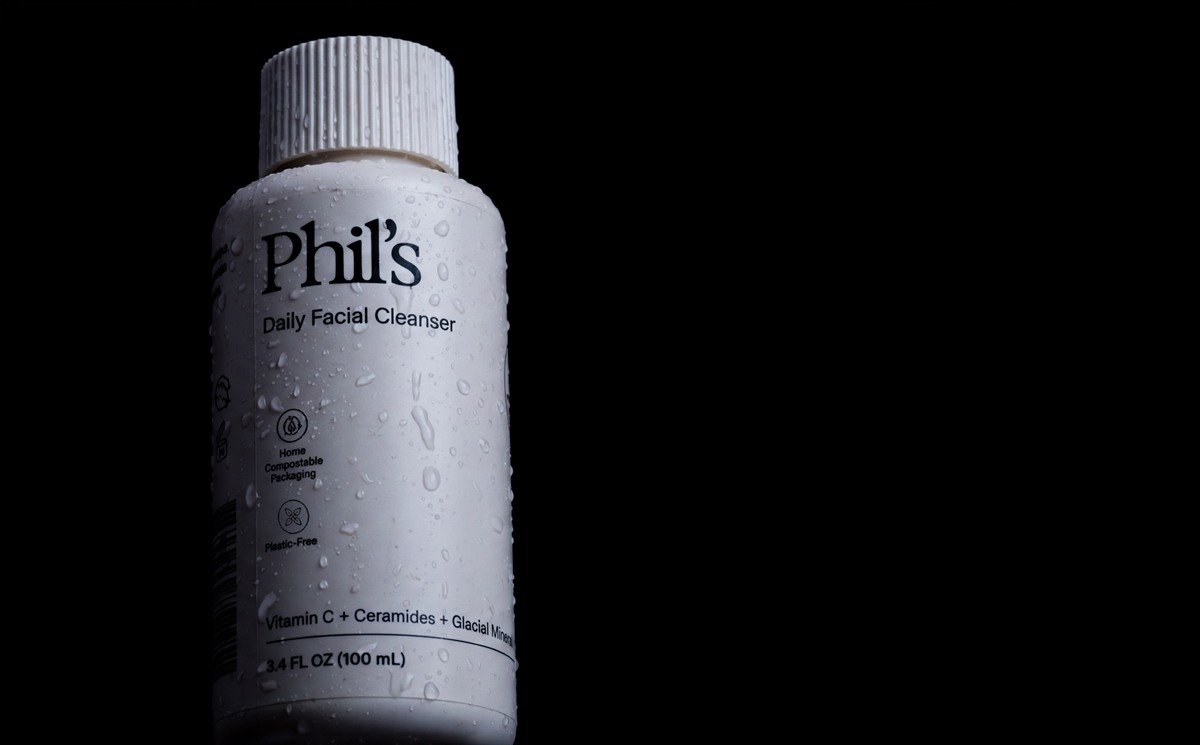
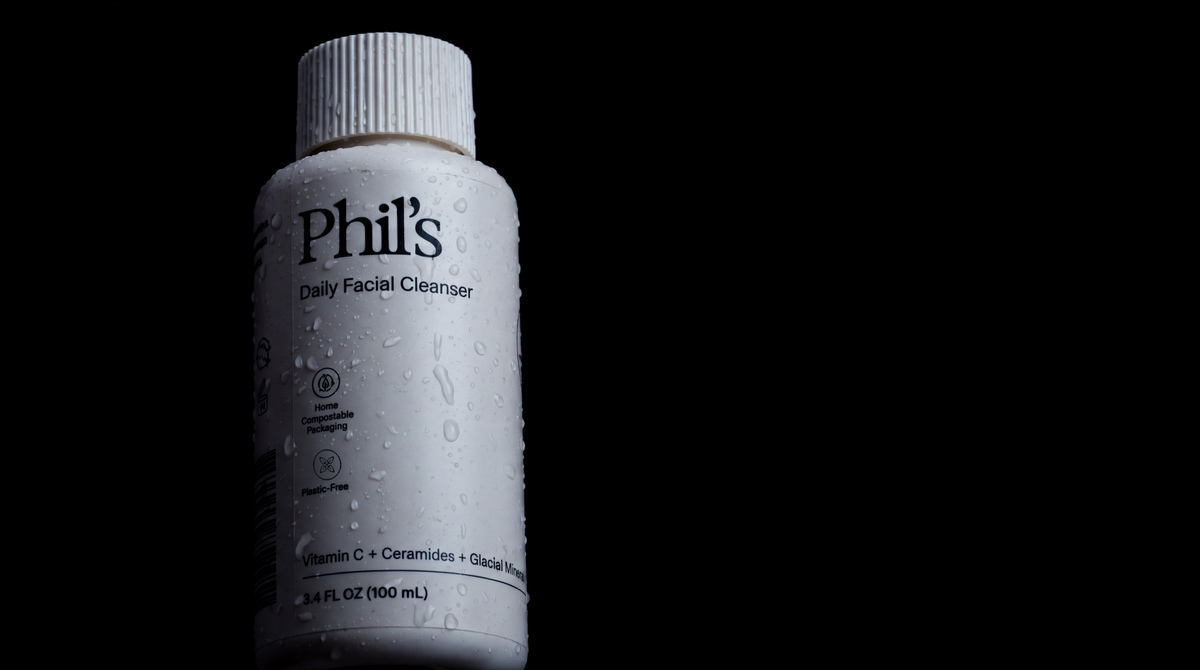
Add files via upload

Changed region(s): [[0.1542, 0.0299, 0.4625, 1.0]]

diff --git a/src/main.tsx b/src/main.tsx
@@ -79,7 +79,7 @@ function Studio() {
 }
 
 function Offer() {
-  return <section className="partners section-pad"><span className="eyebrow">THE FIVE-IMAGE PRODUCT CAMPAIGN</span><h2>Five images.<br/>One clear direction.</h2><p className="offer-intro">A focused set for a product launch, refresh or content push. You get five finished images that feel like one campaign, plus selected crops for the places they need to run.</p><div className="offer-grid"><div><strong>01</strong><span>TWO HERO COMPOSITIONS</span><p>A lead hero and a tilted hero that establish the campaign.</p></div><div><strong>02</strong><span>TWO DETAIL VIEWS</span><p>A slight macro and an extreme macro that bring the product closer.</p></div><div><strong>03</strong><span>ONE COPY-SPACE COMPOSITION</span><p>One composition with room for campaign messaging.</p></div><div><strong>+</strong><span>READY FOR PLACEMENT</span><p>One wide website crop and agreed social crops from selected images.</p></div></div><p className="pricing-note">The five master images are the finished campaign photographs. The website and social adaptations are crops made from selected masters. Advertising copy and graphic layouts can be scoped separately.</p><div className="capabilities"><span className="eyebrow">SUPPORTING CAPABILITIES</span><p>{capabilities.join(' · ')}</p></div></section>;
+  return <section className="partners section-pad"><span className="eyebrow">THE FIVE-IMAGE PRODUCT CAMPAIGN</span><h2>Five images.<br/>One clear direction.</h2><p className="offer-intro">A focused set for a product launch, refresh or content push. You get five finished images that feel like one campaign, plus selected crops for the places they need to run.</p><div className="offer-grid"><div><strong>01</strong><span>ONE ANGLED HERO</span><p>A clear, complete product view that establishes the campaign.</p></div><div><strong>02</strong><span>TWO DETAIL VIEWS</span><p>A slight macro and an extreme macro that bring the product closer.</p></div><div><strong>03</strong><span>TWO COPY-SPACE COMPOSITIONS</span><p>A hero and closer detail composed with room for campaign messaging.</p></div><div><strong>+</strong><span>READY FOR PLACEMENT</span><p>Agreed website and social crops prepared from selected images.</p></div></div><p className="pricing-note">The five master images are the finished campaign photographs. Placement examples show how selected copy-space images can carry website and advertising layouts. Copywriting and graphic production can be scoped separately.</p><div className="capabilities"><span className="eyebrow">SUPPORTING CAPABILITIES</span><p>{capabilities.join(' · ')}</p></div></section>;
 }
 
 function Contact() {
@@ -91,7 +91,7 @@ function Contact() {
     <div className="email-inquiry">
       <h3>Tell me what you’re creating.</h3>
       <p>Send your product, idea, intended placements and timeline. I’ll turn it into a clear campaign plan and estimate.</p>
-      <p className="email-address">hello@concreteorbit.com</p>
+      <a className="email-address" href="mailto:hello@concreteorbit.com">hello@concreteorbit.com</a>
     </div>
   </section>;
 }
@@ -105,10 +105,10 @@ function Home() {
     <section className="hero section-pad fullbleed-hero">
       <div className={`hero-image homepage-hero-stage homepage-hero-stage-${heroSlide}`}>
         <picture className={`homepage-hero-photo homepage-hero-slide homepage-hero-macro ${heroSlide === 0 ? 'is-active' : ''}`} aria-hidden={heroSlide !== 0}>
-          <img className="portfolio-image" src="/images/projects/trace-magnesium-glycinate-extreme-macro-1920.webp" sizes="100vw" width={1920} height={1072} alt="Extreme macro of the Trace Magnesium Glycinate label and ribbed cap in deep blue light." loading="eager" fetchPriority="high" decoding="async"/>
+          <img className="portfolio-image" src="/images/projects/mt-angel-extreme-macro-1920.webp" sizes="100vw" width={1920} height={1072} alt="Extreme close-up of the Mt. Angel Vitamins Joint Solution label, amber bottle and ribbed cap." loading="eager" fetchPriority="high" decoding="async"/>
         </picture>
-        <picture className={`homepage-hero-photo homepage-hero-slide homepage-hero-macro homepage-hero-acure ${heroSlide === 1 ? 'is-active' : ''}`} aria-hidden={heroSlide !== 1}>
-          <img className="portfolio-image" src="/images/projects/acure-shampoo-extreme-macro-1920.webp" sizes="100vw" width={1920} height={1072} alt="Extreme macro of the ACURE shampoo tube covered in water droplets and illuminated in cyan light." loading="eager" decoding="async"/>
+        <picture className={`homepage-hero-photo homepage-hero-slide homepage-hero-macro homepage-hero-phils ${heroSlide === 1 ? 'is-active' : ''}`} aria-hidden={heroSlide !== 1}>
+          <img className="portfolio-image" src="/images/projects/phils-extreme-macro-2000.jpg" srcSet="/images/projects/phils-extreme-macro-1200.jpg 1200w, /images/projects/phils-extreme-macro-2000.jpg 1376w" sizes="100vw" width={1376} height={768} alt="Extreme close-up of the Phil’s Daily Facial Cleanser label, ribbed cap and water droplets." loading="eager" decoding="async"/>
         </picture>
         <div className="fullbleed-hero-copy">
           <p className="fullbleed-hero-brand"><span>CONCRETE ORBIT</span></p>
@@ -153,7 +153,7 @@ const applicationSettings: Record<string, ApplicationSettings> = {
   },
   'mt-angel-joint-solution': { bannerIndex: 6, bannerIndexes: [6, 0], bannerIntervalMs: 30000, adIndex: 4, adIndexes: [4, 5], websiteHeadline: 'Joint support, brought into focus.', adHeadline: 'Movement starts here.' },
   'before-toothpaste': { bannerIndex: 4, bannerIndexes: [4, 0], bannerIntervalMs: 30000, adIndex: 3, adIndexes: [3, 4], websiteHeadline: 'A closer look at clean.', adHeadline: 'Clean, brought closer.' },
-  'phils-daily-facial-cleanser': { bannerIndex: 3, adIndex: 3, adIndexes: [3, 4], websiteHeadline: 'Clean, brought closer.', adHeadline: 'A better way to begin.' },
+  'phils-daily-facial-cleanser': { bannerIndex: 3, bannerIndexes: [3, 0], bannerIntervalMs: 30000, adIndex: 3, adIndexes: [3, 4], websiteHeadline: 'Clean, brought closer.', adHeadline: 'A better way to begin.' },
   trace: { bannerIndex: 2, adIndex: 0, websiteHeadline: '40,000 Volts, up close.', adHeadline: 'Blue light. Water. Energy.' },
 };
 

diff --git a/src/projectData.ts b/src/projectData.ts
@@ -35,7 +35,7 @@ export const projects: Project[] = [
   {
     slug: 'mt-angel-joint-solution', name: 'JOINT SOLUTION', brand: 'Mt. Angel Vitamins', tone: 'slate',
     services: ['Creative Direction', 'Photography', 'Compositing', 'Image Finishing'],
-    deliverables: 'Angled hero · Slight macro · Extreme macro · Copy-space hero · Copy-space detail',
+    deliverables: 'Hero · Angled hero · Slight macro · Extreme macro · Copy-space hero',
     direction: 'A low-key product study giving an amber supplement bottle greater weight, precision and presence.',
     cover: { src: '/images/projects/mt-angel-hero-copy-space-2560.webp', alt: 'Mt. Angel Vitamins Joint Solution bottle upright beside generous black copy space.', width: 2560, height: 1662 },
     gallery: [
@@ -67,13 +67,13 @@ export const projects: Project[] = [
     services: ['Creative Direction', 'Art Direction', 'Photography', 'Image Finishing'],
     deliverables: 'Angled hero · Slight macro · Extreme macro · Copy-space hero · Copy-space detail',
     direction: 'A restrained skincare study built around clean form, condensation and deep contrast.',
-    cover: { src: '/images/projects/phils-hero-copy-space-2000.jpg', srcSet: '/images/projects/phils-hero-copy-space-1200.jpg 1200w, /images/projects/phils-hero-copy-space-2000.jpg 2000w', alt: 'Phil’s Daily Facial Cleanser upright beside generous black copy space.', width: 2000, height: 1241 },
+    cover: { src: '/images/projects/phils-hero-copy-space-2000.jpg', srcSet: '/images/projects/phils-hero-copy-space-1200.jpg 1200w, /images/projects/phils-hero-copy-space-2000.jpg 2000w', alt: 'Phil’s Daily Facial Cleanser upright beside generous black copy space.', width: 2000, height: 1116 },
     gallery: [
-      { src: '/images/projects/phils-extreme-macro-2000.jpg', srcSet: '/images/projects/phils-extreme-macro-1200.jpg 1031w', alt: 'Extreme close-up of the Phil’s Daily Facial Cleanser label, ribbed cap and water droplets.', width: 1031, height: 575 },
+      { src: '/images/projects/phils-extreme-macro-2000.jpg', srcSet: '/images/projects/phils-extreme-macro-1200.jpg 1200w, /images/projects/phils-extreme-macro-2000.jpg 1376w', alt: 'Extreme close-up of the Phil’s Daily Facial Cleanser label, ribbed cap and water droplets.', width: 1376, height: 768 },
       { src: '/images/projects/phils-slight-macro-2000.jpg', srcSet: '/images/projects/phils-slight-macro-1200.jpg 1200w, /images/projects/phils-slight-macro-2000.jpg 2000w', alt: 'Close view of the Phil’s Daily Facial Cleanser bottle, ribbed cap and water droplets.', width: 2000, height: 1271 },
-      { src: '/images/projects/phils-tilt-hero-2000.jpg', srcSet: '/images/projects/phils-tilt-hero-1200.jpg 1200w, /images/projects/phils-tilt-hero-2000.jpg 2000w', alt: 'Phil’s Daily Facial Cleanser angled against black with wide copy space.', width: 2000, height: 1125 },
-      { src: '/images/projects/phils-hero-copy-space-2000.jpg', srcSet: '/images/projects/phils-hero-copy-space-1200.jpg 1200w, /images/projects/phils-hero-copy-space-2000.jpg 2000w', alt: 'Phil’s Daily Facial Cleanser upright beside generous black copy space.', width: 2000, height: 1241 },
-      { src: '/images/projects/phils-slight-macro-copy-space-2000.jpg', srcSet: '/images/projects/phils-slight-macro-copy-space-1200.jpg 1200w, /images/projects/phils-slight-macro-copy-space-2000.jpg 2000w', alt: 'Close view of Phil’s Daily Facial Cleanser beside black copy space.', width: 2000, height: 1402 },
+      { src: '/images/projects/phils-tilt-hero-2000.jpg', srcSet: '/images/projects/phils-tilt-hero-1200.jpg 1200w, /images/projects/phils-tilt-hero-2000.jpg 1376w', alt: 'Phil’s Daily Facial Cleanser angled against black with wide copy space.', width: 1376, height: 768 },
+      { src: '/images/projects/phils-hero-copy-space-2000.jpg', srcSet: '/images/projects/phils-hero-copy-space-1200.jpg 1200w, /images/projects/phils-hero-copy-space-2000.jpg 2000w', alt: 'Phil’s Daily Facial Cleanser upright beside generous black copy space.', width: 2000, height: 1116 },
+      { src: '/images/projects/phils-hero-2000.jpg', srcSet: '/images/projects/phils-hero-1200.jpg 1200w, /images/projects/phils-hero-2000.jpg 2000w', alt: 'Phil’s Daily Facial Cleanser presented upright against deep black.', width: 2000, height: 1116 },
     ],
   },
   {

diff --git a/src/styles.css b/src/styles.css
@@ -577,7 +577,8 @@ footer{background:var(--lab-panel);border-top:1px solid var(--lab-line)}
 .email-inquiry{align-self:start;padding:30px 0 0;border-top:1px solid var(--lab-line)}
 .email-inquiry h3{max-width:520px;margin:28px 0 20px;font-family:'Space Grotesk',sans-serif;font-size:clamp(34px,4.2vw,62px);font-weight:500;line-height:1.03;letter-spacing:-.045em}
 .email-inquiry>p{max-width:520px;margin:0;color:var(--lab-muted);font-size:13px;line-height:1.85}
-.email-address{display:inline-block;margin:34px 0 0;font:500 clamp(16px,1.7vw,23px) 'Space Grotesk',sans-serif;letter-spacing:-.015em;color:var(--lab-white);user-select:text}
+.email-address{display:inline-block;margin:34px 0 0;font:500 clamp(16px,1.7vw,23px) 'Space Grotesk',sans-serif;letter-spacing:-.015em;color:var(--lab-white);text-decoration:underline;text-decoration-thickness:1px;text-underline-offset:7px;text-decoration-color:var(--lab-accent);user-select:text;transition:color .2s ease,text-decoration-color .2s ease}
+.email-address:hover,.email-address:focus-visible{color:var(--lab-accent);text-decoration-color:var(--lab-white);outline:none}
 .contact-simple{border-top:1px solid var(--lab-line);align-items:start}
 .contact-simple .contact-heading h2{margin-top:28px}
 .contact-simple .email-inquiry{position:static}
@@ -1026,6 +1027,22 @@ footer{background:var(--lab-panel);border-top:1px solid var(--lab-line)}
   text-align:right;
   text-shadow:0 2px 18px rgba(0,0,0,.9);
 }
+.website-concept-phils-daily-facial-cleanser.website-concept-banner-slide-1::after{
+  background:linear-gradient(90deg,rgba(0,0,0,.78) 0%,rgba(0,0,0,.48) 24%,rgba(0,0,0,.1) 45%,transparent 66%);
+}
+.website-concept-phils-daily-facial-cleanser.website-concept-banner-slide-1 .concept-copy{
+  left:4.5%;
+  right:auto;
+  top:auto;
+  bottom:6.5%;
+  width:30%;
+  transform:none;
+  text-align:left;
+}
+.website-concept-phils-daily-facial-cleanser.website-concept-banner-slide-1 .concept-copy h4{
+  font-size:clamp(24px,2.6vw,43px);
+  line-height:1.02;
+}
 
 @media(max-width:800px){
   .website-concept-mt-angel-joint-solution .concept-copy,
@@ -1064,5 +1081,10 @@ footer{background:var(--lab-panel);border-top:1px solid var(--lab-line)}
     width:auto;
     transform:none;
     text-align:right;
+  }
+  .website-concept-phils-daily-facial-cleanser.website-concept-banner-slide-1 .concept-copy{
+    left:7%;
+    right:7%;
+    text-align:left;
   }
 }

diff --git a/index.html b/index.html
@@ -1,2 +1,1 @@
 <!doctype html><html lang="en"><head><meta charset="UTF-8"/><meta name="viewport" content="width=device-width, initial-scale=1.0"/><meta name="theme-color" content="#171816"/><meta name="description" content="Concrete Orbit creates five-image product campaigns for wellness brands, with coordinated hero, macro and copy-space imagery for websites, social and advertising."/><meta property="og:title" content="Concrete Orbit | Five-Image Product Campaigns for Wellness Brands"/><meta property="og:description" content="One product. Five coordinated images. One campaign built for websites, social and advertising."/><meta property="og:type" content="website"/><title>Concrete Orbit | Five-Image Product Campaigns for Wellness Brands</title><link rel="icon" type="image/svg+xml" href="/favicon.svg"/></head><body><div id="root"></div><script type="module" src="/src/main.tsx"></script></body></html>
-

diff --git a/README.md b/README.md
@@ -15,13 +15,11 @@ pnpm build
 - Campaign data and image sets live in `src/projectData.ts`.
 - Homepage campaign selections live in `src/selectedWork.ts`.
 - Optimized website assets live in `public/images`.
-- The homepage campaign set includes Alice Focus + Sleep, Mt. Angel Vitamins Joint Solution, Before SuperMint Toothpaste, ACURE Shampoo, Trace Magnesium Glycinate and EO.
-- Every homepage campaign appears as a large editorial panel that alternates every 30 seconds between a full-image extreme macro and a split-layout slight macro. The overlay identifies the actual campaign, product and services rather than presenting fictional advertising copy.
-- Campaign pages present the complete image set as a large scrolling sequence before the placement examples, with quiet labels that identify each composition.
-- In the Alice placement examples, the website banner alternates between Focus and Sleep every 30 seconds. The advertisement carousel uses the Focus slight macro with copy space and the Sleep hero with copy space, with layout text placed in the open black area. The social post uses the straight hero.
-- Each campaign page follows the same placement structure: a macro website banner, copy-space advertising layouts and a straight-hero social post.
-- Alice and Mt. Angel retain their approved placement treatments. Before, Trace Magnesium, EO and ACURE use an extreme macro website banner, a slight-macro copy-space advertisement followed by a straight-hero copy-space option, and a straight or dramatic tilted hero for social.
-- The corrected EO, ACURE Shampoo and Trace Magnesium files supplied on October 12, 2026 replace their earlier versions. Advertisement text is positioned per slide to remain in the photographed negative space.
+- The homepage presents four selected campaigns: Alice Focus + Sleep, Mt. Angel Vitamins Joint Solution, Before SuperMint Toothpaste and Phil’s Daily Facial Cleanser.
+- Every homepage campaign opens on its extreme macro and links to a dedicated campaign page.
+- Campaign pages lead with an extreme macro, then a slight macro and angled hero before the placement examples.
+- Campaign pages keep the public sequence focused on the extreme macro, slight macro and angled hero. Additional hero and copy-space photographs support the placement examples.
+- Every campaign ends with a website banner and a two-option advertising presentation. Campaign text stays in the photographed negative space, away from the product.
 - Featured brand work is labeled as independent study work and should remain factually identified that way.
 
 ## Inquiry form
